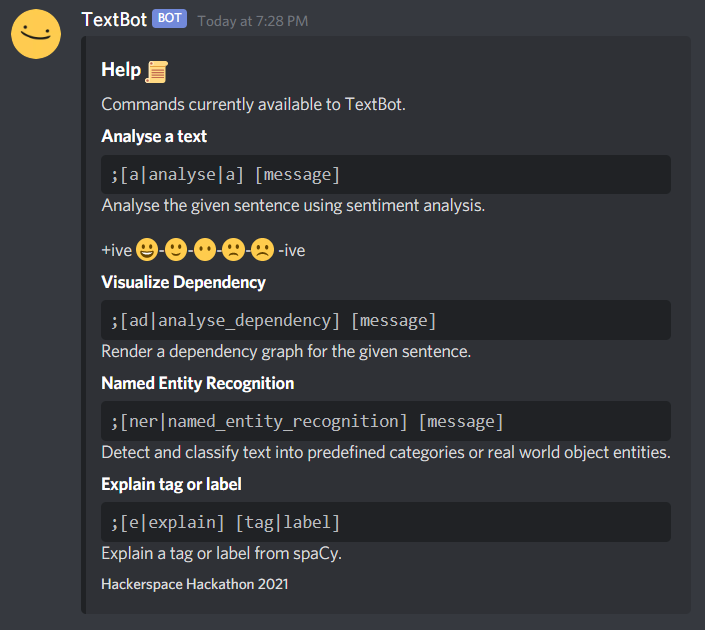
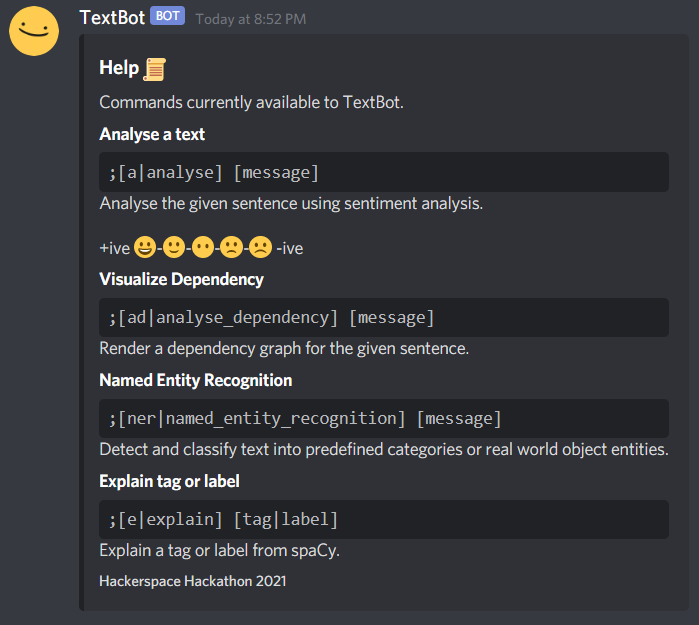
Update README.md

diff --git a/main.py b/main.py
@@ -142,7 +142,7 @@ async def help(ctx):
     m = discord.Embed()
     m.title = 'Help :scroll:'
     m.description = 'Commands currently available to TextBot.'
-    m.add_field(name='Analyse a text', value='```;[a|analyse|a] [message]``` Analyse the given sentence using sentiment analysis.\n\n+ive :grinning:-:slight_smile:-:no_mouth:-:slight_frown:-:frowning2: -ive', inline=False)
+    m.add_field(name='Analyse a text', value='```;[a|analyse] [message]``` Analyse the given sentence using sentiment analysis.\n\n+ive :grinning:-:slight_smile:-:no_mouth:-:slight_frown:-:frowning2: -ive', inline=False)
     m.add_field(name='Visualize Dependency', value='```;[ad|analyse_dependency] [message]``` Render a dependency graph for the given sentence.', inline=False)
     m.add_field(name='Named Entity Recognition ', value='```;[ner|named_entity_recognition] [message]``` Detect and classify text into predefined categories or real world object entities.', inline=False)
     m.add_field(name='Explain tag or label', value='```;[e|explain] [tag|label]``` Explain a tag or label from spaCy.', inline=False)

diff --git a/README.md b/README.md
@@ -1,5 +1,33 @@
 # TextBot
-A sentiment analysis Discord bot build with spaCy and TextBlob during MMU Hackerspace Hackathon 2021!
+<img src="assets/ditto.PNG" alt="emoji" height="25">A sentiment analysis Discord bot build with spaCy and TextBlob during MMU Hackerspace Hackathon 2021! 
+
+
+
+## Commands
+
+`;help`- Get a list currently available commands. More commands soon :)
+
+<img src="./assets/ss-help.png" alt="help menu" style="zoom:70%;" align="left" />
+
+`;a [message]`- Analyse a given text by showing an overall emoji to indicate the extent of positiveness or negativeness in the statement. It also shows other stats such as polarity and subjectivity.
+Polarity: [-1,1] 
+Subjectivity: [0,1]
+
+| A Positive Statement                                     | A Neutral Statement                                       | A Negative Statement                                      |
+| -------------------------------------------------------- | --------------------------------------------------------- | --------------------------------------------------------- |
+| <img src="./assets/ss-a.png" alt="a1" style="zoom:70%;"> | <img src="./assets/ss-a3.png" alt="a3" style="zoom:70%;"> | <img src="./assets/ss-a2.png" alt="a2" style="zoom:70%;"> |
+
+`;ad [message]`- Render a dependency graph from the given sentence. This show the relationship between each word and its type of parts of speech (this feature contains a bug, still fixing in progress)
+
+<img src="./assets/ss-ad.png" alt="Dependency" style="zoom:70%;" align="left" />
+
+`;ner [message]`- Detects named-entities in the sentence. NER helps to recognize the key elements in a sentence.
+
+<img src="./assets/ss-ner.png" alt="named entity recognition" style="zoom:70%;" align="left" />
+
+`;e [tag || label]`- Explains the meaning of a tag/label from spaCy.
+
+<img src="./assets/ss-e.png" alt="explain a tag" style="zoom:70%;" align="left" />
 
 
 
@@ -29,7 +57,7 @@ A sentiment analysis Discord bot build with spaCy and TextBlob during MMU Hacker
    $ python -m textblob.download_corpora
    ```
 
-6. Install svglib, which allows Python to read `.svg` files and convert them into `.png`. 
+6. Install svglib, which allows Python to read `.svg` files and convert them into `.png`. files.
 
    [Optional] Install python-decouple for reading environmental variables (for secret bot token).
 
@@ -40,3 +68,10 @@ A sentiment analysis Discord bot build with spaCy and TextBlob during MMU Hacker
 
 7. Run the bot. The bot should now be online. 
 
+
+
+## Useful Links and Learning Materials
+
+1. [SpaCy Python Tutorials by JCharisTech & J-Secur1ty](https://youtube.com/playlist?list=PLJ39kWiJXSiz1LK8d_fyxb7FTn4mBYOsD)
+2. [Code a Discord Bot with Python by freeCodeCamp](https://www.youtube.com/watch?v=SPTfmiYiuok)
+3. [Python Natural Language Processing: spaCy VS TextBlob](https://python.libhunt.com/compare-spacy-vs-textblob)
